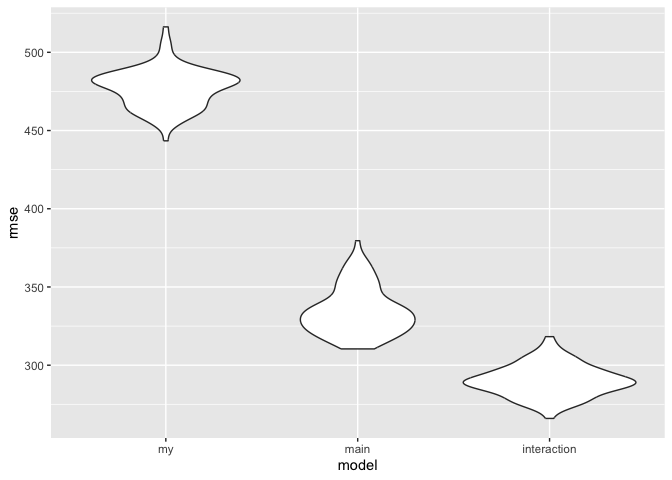
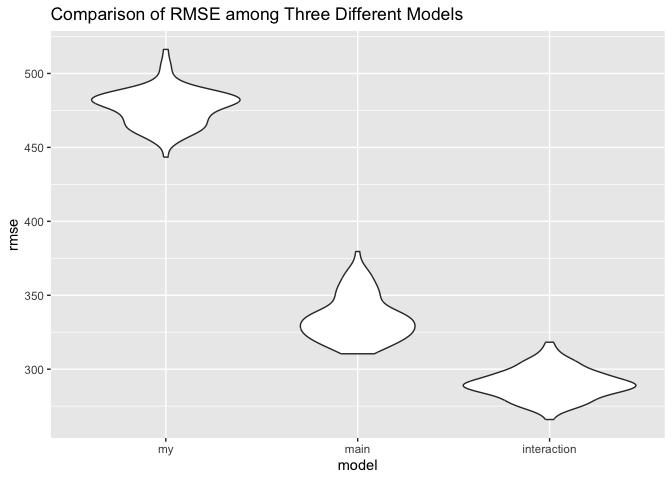
final commit

diff --git a/p8105_hw6_lz2951.md b/p8105_hw6_lz2951.md
@@ -94,21 +94,41 @@ The distribution of ${\hat{r}}^2$:
 
 ``` r
 boostrap_results |>
-  ggplot(aes(x = r.squared)) + geom_density()
+  ggplot(aes(x = r.squared)) + 
+  geom_density() +
+  ggtitle("Density Plot Showing the Distribution of Estimated Squared r among Boostrap")
 ```
 
 ![](p8105_hw6_lz2951_files/figure-gfm/unnamed-chunk-4-1.png)<!-- -->
+
+According to the density plot, the distribution of squared r is
+essentially a symmetric bell-shaped curve. The range of squared r falls
+between 0.87 and 0.95, with a peak around 0.92. This indicates that the
+predictive performance of the simple linear regression model for
+predicting tmax using tmin and prcp as predictors is satisfactory. The
+distribution of squared r is not apparently skewed, suggesting that
+squared r is not significantly influenced by individual outlier values.
 
 The distribution of $log(\hat{\beta}_1*\hat{\beta}_2)$
 
 ``` r
 boostrap_results |>
-  ggplot(aes(x = logbeta)) + geom_density()
+  ggplot(aes(x = logbeta)) + 
+  geom_density() +
+  ggtitle("Density Plot Showing the Distribution of Estimated log(beta0*beta1) among Boostrap") +
+  xlab("log(beta0*beta1)")
 ```
 
     ## Warning: Removed 3361 rows containing non-finite values (`stat_density()`).
 
 ![](p8105_hw6_lz2951_files/figure-gfm/unnamed-chunk-5-1.png)<!-- -->
+
+According to the density plot, the distribution of
+$log(\hat{\beta}_1*\hat{\beta}_2)$ is a left-skewed curve. The peak of
+$log(\hat{\beta}_1*\hat{\beta}_2)$ falls around -5.5. This obviously
+left-skewed distribution of $log(\hat{\beta}_1*\hat{\beta}_2)$ suggests
+that $log(\hat{\beta}_1*\hat{\beta}_2)$ is significantly influenced by
+individual extremely small values.
 
 The 95% confidence interval for ${\hat{r}}^2$ is (0.8885495, 0.9406812)
 
@@ -142,7 +162,10 @@ birthwt_df =
 
 ## My own model
 
-I choose mheight, mrace and ppbmi as predictors.
+Intuitively, it’s reasonable that the mother’s physique and race are
+related to birth weight of the baby. So I choose mheight, mrace and
+ppbmi as predictors. This model is baesd on a hypothesized structure for
+the factors that underly birthweight.
 
 ``` r
 my_model = lm(bwt ~ mheight + mrace + ppbmi, data = birthwt_df)
@@ -162,13 +185,18 @@ my_model |>
 | mracePuerto Rican | -123.10674 | 0.00021 |
 | ppbmi             |   20.97079 | 0.00000 |
 
+The most p.value of terms in this model are significant, suggesting my
+model is reasonable.
+
 Add residuals and fitted values, make plot.
 
 ``` r
 birthwt_df |>
   modelr::add_residuals(my_model) |>
   modelr::add_predictions(my_model) |>
-  ggplot(aes(x = pred, y = resid)) + geom_point()
+  ggplot(aes(x = pred, y = resid)) + 
+  geom_point() +
+  ggtitle("Point Plot for Model Residuals against Fitted Values")
 ```
 
 ![](p8105_hw6_lz2951_files/figure-gfm/unnamed-chunk-8-1.png)<!-- -->
@@ -207,7 +235,15 @@ cv_df |>
     values_to = "rmse",
     names_prefix = "rmse_") |> 
   mutate(model = fct_inorder(model)) |> 
-  ggplot(aes(x = model, y = rmse)) + geom_violin()
+  ggplot(aes(x = model, y = rmse)) + 
+  geom_violin() +
+  ggtitle("Comparison of RMSE among Three Different Models")
 ```
 
 ![](p8105_hw6_lz2951_files/figure-gfm/unnamed-chunk-10-1.png)<!-- -->
+
+According to the violin plot, the cross-validated rmse of main effects
+model and interaction model are obviously smaller than my own model.
+Between these two models, interaction model’s performance is even
+better, with lower rmse and more concentrated rmse distribution. So the
+interaction model is the optimal among all three models.
